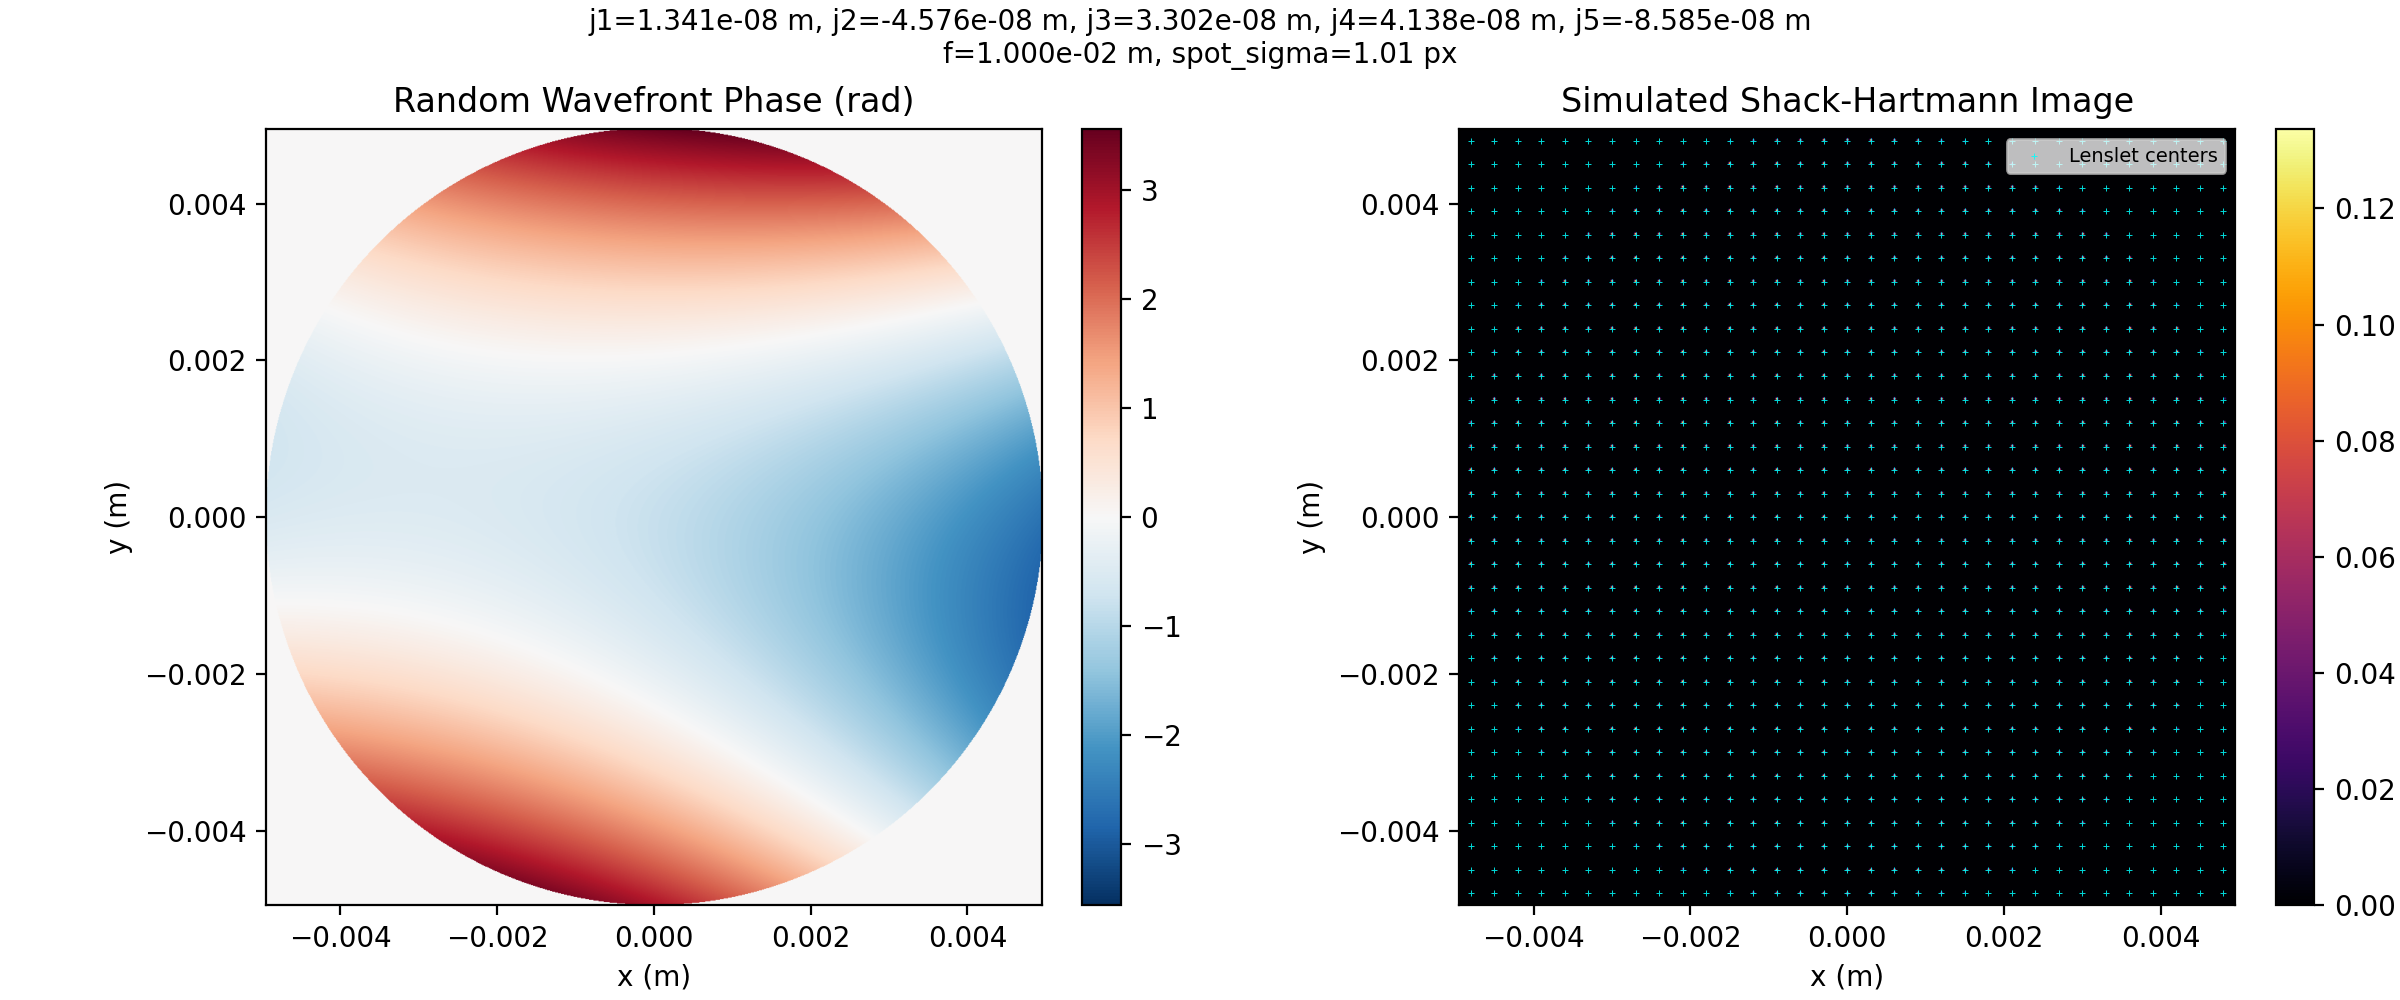
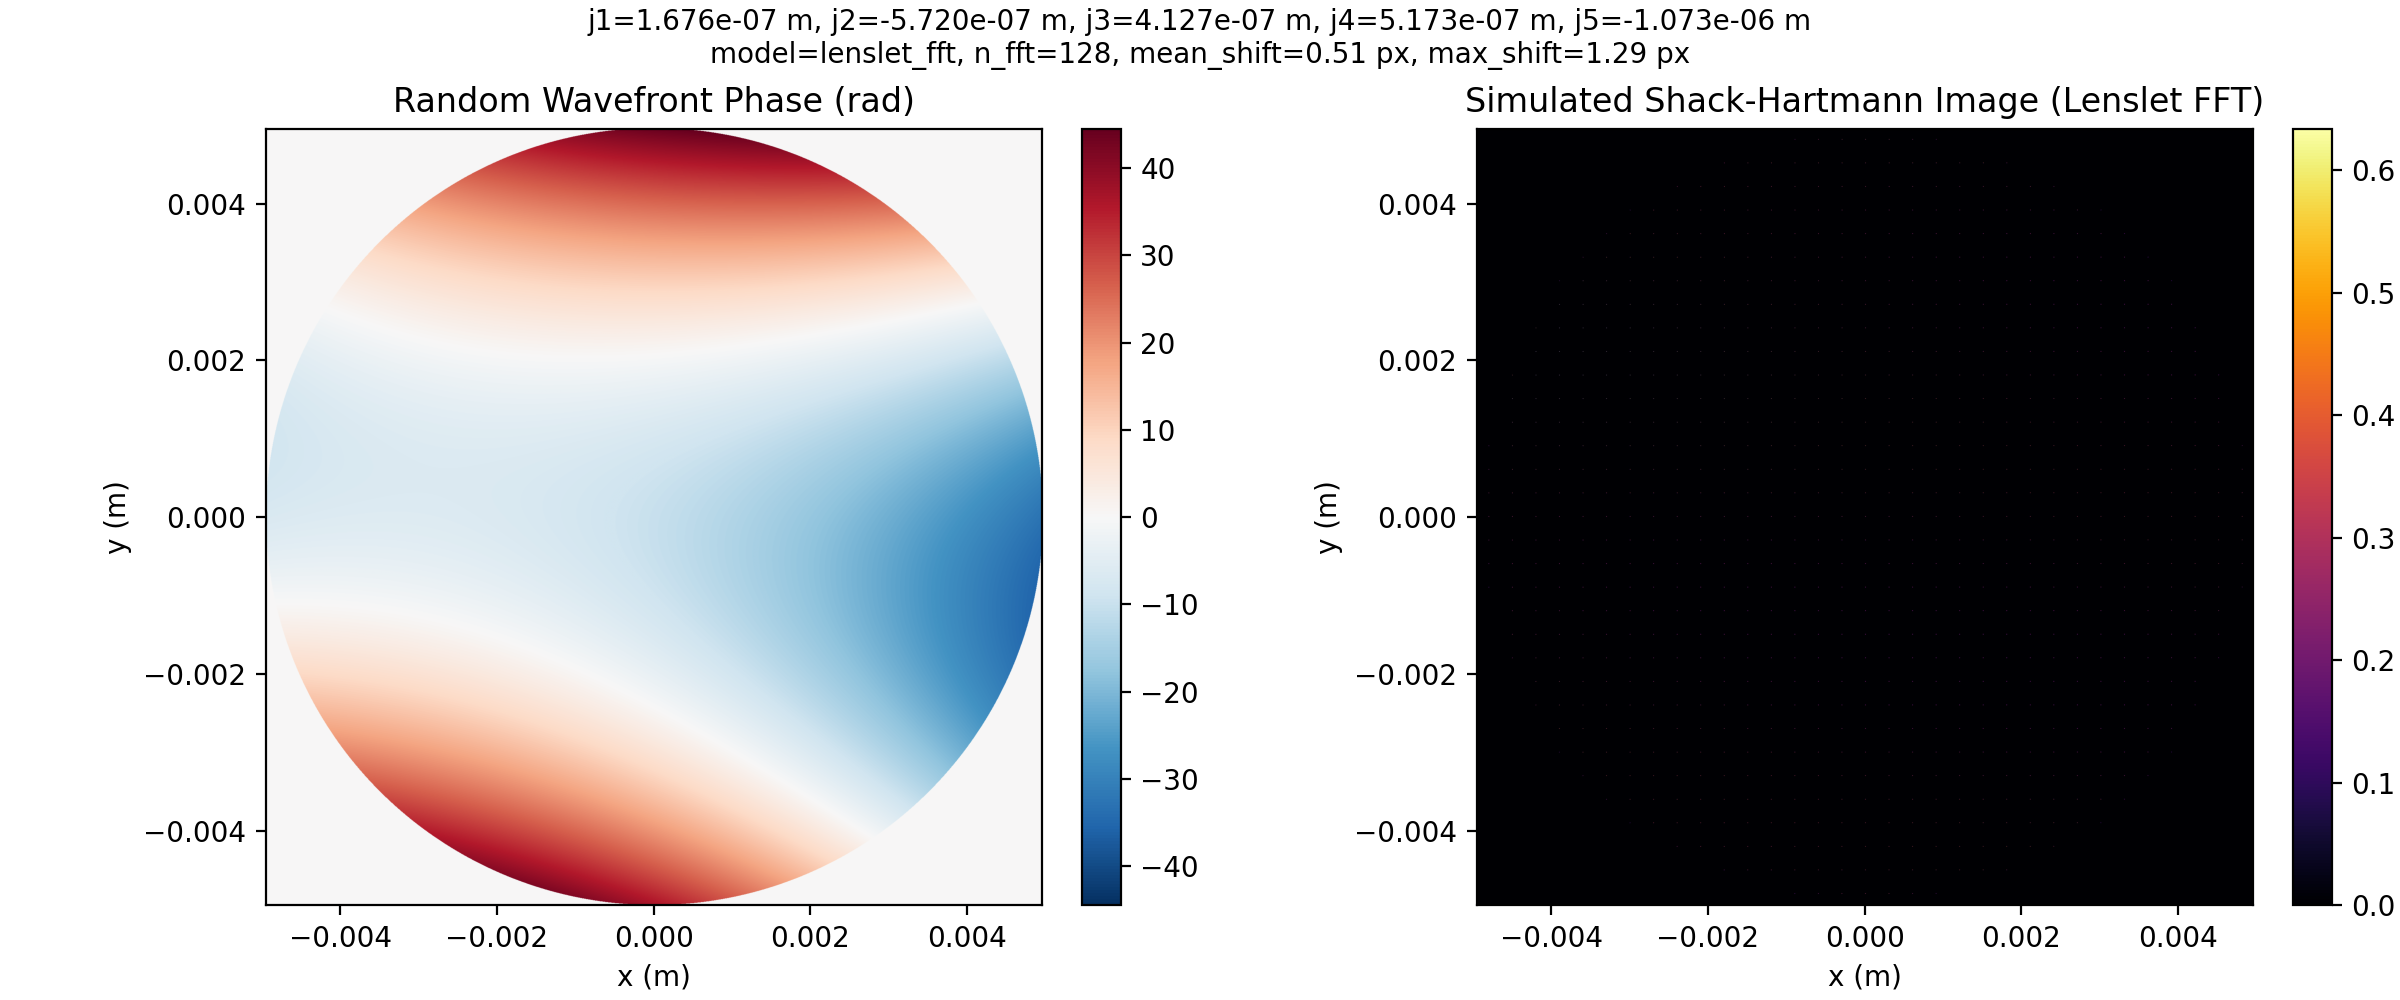
部分仿真修改

diff --git a/simulate_wavefront_and_sh_image.py b/simulate_wavefront_and_sh_image.py
@@ -69,7 +69,7 @@ def zernike_mode(j: int, rho: np.ndarray, phi: np.ndarray) -> np.ndarray:
 
     return norm * r * angular
 
-
+# 随机生成波前相位
 def build_wavefront_phase(
     cfg: Dict,
     coeff_scale: float = 1.0,
@@ -90,13 +90,15 @@ def build_wavefront_phase(
 
     used_w = float(mla["computed"]["used_area_m"][0])
     used_h = float(mla["computed"]["used_area_m"][1])
-
+    
+    #网络一致性检验
     if abs(nx * dx - used_w) > 1e-12 or abs(ny * dy - used_h) > 1e-12:
         raise ValueError(
             "Grid shape/spacing is inconsistent with used microlens area. "
             "Please keep nx*dx and ny*dy equal to used_area_m."
         )
-
+    
+    #构建坐标网络，中心对齐
     x = (np.arange(nx) - nx / 2 + 0.5) * dx
     y = (np.arange(ny) - ny / 2 + 0.5) * dy
     xx, yy = np.meshgrid(x, y)
